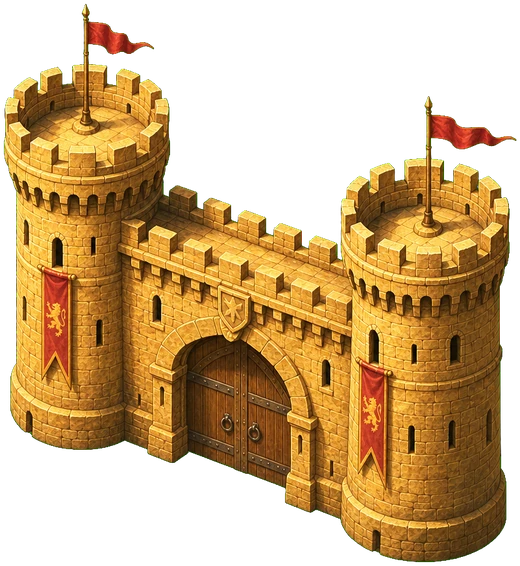
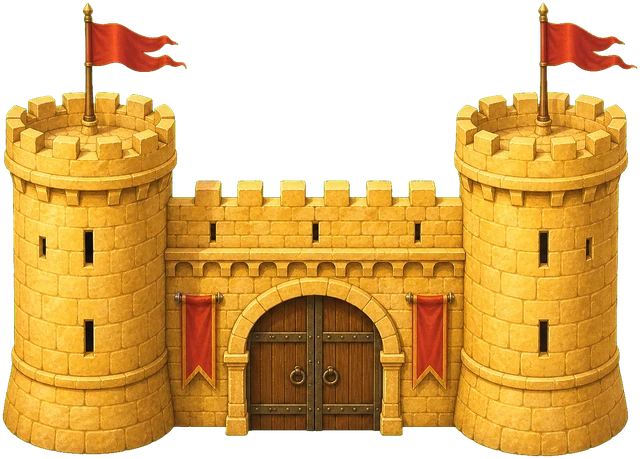
Круглый город: ровные ворота, переулки, подписи одним кеглем, жители и животные
По замечаниям владельца 06.11: ворота перерисованы фронтально и стоят на стене ровно;
между соседними районами переулки с обочинами от улицы снаружи к улице внутри; подписи
районов — один кегль на все строки, до четырёх строк, ширина строк измеряется тем же
шрифтом через canvas, текст по центру остатка дуги, значок номера в начале, обрезки нет;
на домах конёк и перегородки. Жизнь города: листы спрайтов из генератора (жители,
животные, предметы), фонтан, лотки и шатёр на площади, путники идут по улице от ворот
к площади и обратно, над городом птицы; при prefers-reduced-motion движения нет.

scripts/img-gen/sheet.py режет лист спрайтов по связным областям. Документация и
«Что нового» обновлены.

Claude-Session: https://claude.ai/code/session_01GYZTpVpHB6EzyvMrXyiWEP

diff --git a/apps/web/src/pages/SpiralCity.tsx b/apps/web/src/pages/SpiralCity.tsx
@@ -17,9 +17,9 @@ const LAND_PRE = "/img/city-plan/landscape.webp";
 /** Наборы текстур на выбор (владелец смотрит варианты на стенде: `?cityStyle=a|b|c`); окрестности — один цельный сгенерированный пейзаж,
  *  стена и ворота из песчаника, деревья и черепица — тоже из генератора (06.11, `scripts/img-gen`). */
 export const CITY_STYLES = {
-  a: { name: "Пергамент", ground: "/img/props/parchment.webp", road: "/img/city-plan/road-gravel.webp", earth: "/img/city-plan/plot-earth.webp", roof: "/img/city-plan/roof-tiles.webp", outside: LAND_PRE, field: "/img/terrain/hills.webp", tree: "/img/props/olive.webp", square: "/img/props/well.webp", roofEdge: "#6e3a26", label: "#fff6e6", number: "#b5583c" },
-  b: { name: "Оазис", ground: "/img/terrain/oasis.webp", road: "/img/city-plan/road-gravel.webp", earth: "/img/city-plan/plot-earth.webp", roof: "/img/city-plan/roof-flat.webp", outside: LAND_PRE, field: "/img/terrain/desert.webp", tree: "/img/props/palm.webp", square: "/img/props/well.webp", roofEdge: "#7a5a36", label: "#3a2d1f", number: "#7a5226" },
-  c: { name: "Глина", ground: "/img/terrain/desert.webp", road: "/img/city-plan/road-gravel.webp", earth: "/img/city-plan/plot-earth.webp", roof: "/img/city-plan/roof-slate.webp", outside: LAND_PRE, field: "/img/terrain/mountains.webp", tree: "/img/props/olive.webp", square: "/img/props/well.webp", roofEdge: "#2f343c", label: "#f4f6f8", number: "#4f5a66" },
+  a: { name: "Пергамент", ground: "/img/props/parchment.webp", road: "/img/city-plan/road-gravel.webp", earth: "/img/city-plan/plot-earth.webp", roof: "/img/city-plan/roof-tiles.webp", outside: LAND_PRE, roofEdge: "#6e3a26", label: "#fff6e6", number: "#b5583c" },
+  b: { name: "Оазис", ground: "/img/terrain/oasis.webp", road: "/img/city-plan/road-gravel.webp", earth: "/img/city-plan/plot-earth.webp", roof: "/img/city-plan/roof-flat.webp", outside: LAND_PRE, roofEdge: "#7a5a36", label: "#3a2d1f", number: "#7a5226" },
+  c: { name: "Глина", ground: "/img/terrain/desert.webp", road: "/img/city-plan/road-gravel.webp", earth: "/img/city-plan/plot-earth.webp", roof: "/img/city-plan/roof-slate.webp", outside: LAND_PRE, roofEdge: "#2f343c", label: "#f4f6f8", number: "#4f5a66" },
 } as const;
 export type CityStyle = keyof typeof CITY_STYLES;
 export function cityStyleFromQuery(): CityStyle {
@@ -28,19 +28,29 @@ export function cityStyleFromQuery(): CityStyle {
 
 /** Геометрия: участок глубиной W, между витками GAP — обочины с травой и дорога шириной ROAD посередине.
  *  Стена стоит за первым витком улицы (WALL_R); ворота внизу, первый участок начинается через GATE_ARC после них. */
-const VB = 560, C = VB / 2, R0 = 182, W = 30, GAP = 15, ROAD = 7, PITCH = W + GAP, GAPLEN = 7, RMIN = 38, T0 = Math.PI / 2, GATE_ARC = 0.3;
+const VB = 560, C = VB / 2, R0 = 182, W = 30, GAP = 15, ROAD = 7, PITCH = W + GAP, GAPLEN = 9, RMIN = 38, T0 = Math.PI / 2, GATE_ARC = 0.3;
+/** Поперечные дороги между соседними районами (замечание владельца 06.11): дорога и травяная обочина в просвете GAPLEN. */
+const LANE = 4.5, LANE_VERGE = 8;
 const WALL_R = R0 + W + GAP + 6;
 /** Стена — сгенерированный отрезок из песчаника (вид сверху, зубцы по краям, 311×96, бесшовный), выложенный по кругу
  *  WALL_N сегментами шириной WALL_BAND; ворота — отдельный спрайт поверх стены внизу. */
 const WALL_SEG = "/img/city-plan/wall-seg.webp", WALL_BAND = 14, WALL_N = Math.round((2 * Math.PI * WALL_R) / (WALL_BAND * 311 / 96));
-const LAND = "/img/city-plan/landscape.webp", GATE = "/img/city-plan/gate.webp", VERGE = "/img/terrain/meadow.webp";
-/** Спрайты у дороги (сгенерированы, см. docs): w/h — доли размера s, чтобы кипарис был узким и высоким, а куст — приземистым. */
-const PLANTS = [
-  { href: "/img/city-plan/tree-green.webp", w: 1, h: 1 },
-  { href: "/img/city-plan/tree-green2.webp", w: 0.5, h: 1.4 },
-  { href: "/img/props/olive.webp", w: 1, h: 1 },
-  { href: "/img/city-plan/bush.webp", w: 1, h: 0.875 },
-];
+const GATE = "/img/city-plan/gate.webp", VERGE = "/img/terrain/meadow.webp";
+/** Спрайты города (сгенерированы, см. docs): h — высота в единицах плана при масштабе 1, ar — высота/ширина файла. */
+const P = "/img/city-plan/";
+const SPR = {
+  tree: { href: P + "tree-green.webp", h: 9, ar: 1.01 }, cypress: { href: P + "tree-green2.webp", h: 11, ar: 2.8 }, olive: { href: "/img/props/olive.webp", h: 8, ar: 0.99 }, bush: { href: P + "bush.webp", h: 4.5, ar: 0.875 },
+  "woman-jug": { href: P + "woman-jug.webp", h: 5.2, ar: 2.97 }, shepherd: { href: P + "shepherd.webp", h: 5, ar: 1.96 }, merchant: { href: P + "merchant.webp", h: 5, ar: 2.28 }, child: { href: P + "child.webp", h: 4, ar: 2.71 }, elder: { href: P + "elder.webp", h: 5, ar: 2.25 }, "man-basket": { href: P + "man-basket.webp", h: 5.1, ar: 2.19 },
+  donkey: { href: P + "donkey.webp", h: 4.6, ar: 1.06 }, camel: { href: P + "camel.webp", h: 6.2, ar: 1.04 }, sheep: { href: P + "sheep.webp", h: 3, ar: 1.07 }, goat: { href: P + "goat.webp", h: 3.4, ar: 1.23 }, dog: { href: P + "dog.webp", h: 2.8, ar: 0.94 }, hen: { href: P + "hen.webp", h: 1.7, ar: 1.31 },
+  stall: { href: P + "stall.webp", h: 7.5, ar: 1.06 }, cart: { href: P + "cart.webp", h: 5, ar: 0.864 }, amphorae: { href: P + "amphorae.webp", h: 4, ar: 1.01 }, tent: { href: P + "tent.webp", h: 6.5, ar: 0.807 }, haystack: { href: P + "haystack.webp", h: 4.5, ar: 1.12 }, "palm-pot": { href: P + "palm-pot.webp", h: 5.5, ar: 1.13 },
+  fountain: { href: P + "fountain.webp", h: 23, ar: 0.957 },
+} as const;
+type SprKey = keyof typeof SPR;
+type Decor = { x: number; y: number; k: SprKey; s: number };
+const FOLK: SprKey[] = ["woman-jug", "shepherd", "merchant", "child", "elder", "man-basket"], BEASTS: SprKey[] = ["donkey", "camel", "sheep", "goat", "dog", "hen"];
+/** Путники, идущие по улице от ворот к площади и обратно (SMIL animateMotion по дороге); при prefers-reduced-motion стоят. */
+const MOVERS: Array<{ k: SprKey; dur: number; begin: number }> = [{ k: "camel", dur: 170, begin: -30 }, { k: "donkey", dur: 140, begin: -95 }, { k: "shepherd", dur: 200, begin: -150 }, { k: "sheep", dur: 200, begin: -147 }, { k: "sheep", dur: 200, begin: -145 }, { k: "woman-jug", dur: 120, begin: -20 }];
+function Sprite({ d }: { d: Decor }) { const q = SPR[d.k]; const h = q.h * d.s, w = h / q.ar; return <image href={q.href} x={d.x - w / 2} y={d.y - h * 0.9} width={w} height={h} filter="url(#sc-soft)" pointerEvents="none" />; }
 type Plot = { a: number; b: number };
 
 /** Спираль Архимеда: шаг витка — глубина участка плюс дорога; длина участка подбирается так, чтобы вместить все районы. */
@@ -78,11 +88,31 @@ function arcPath(p: Plot, rad: number, reverse: boolean): string {
 }
 /** Детерминированный «случайный» ряд для деревьев и полей — одинаковый на всех устройствах. */
 function rnd(seed: number): () => number { let h = seed >>> 0 || 1; return () => { h ^= h << 13; h >>>= 0; h ^= h >>> 17; h ^= h << 5; h >>>= 0; return h / 4294967296; }; }
-function twoLines(s: string, limit = 16): [string, string] {
-  if (s.length <= limit) return [s, ""];
-  const w = s.split(" "); const a: string[] = []; const b: string[] = [];
-  for (const x of w) { if (!b.length && [...a, x].join(" ").length <= Math.max(limit, Math.ceil(s.length / 2))) a.push(x); else b.push(x); }
-  return [a.join(" "), b.join(" ")];
+/** Ширина строки при кегле 1 — замер тем же шрифтом через canvas (подписи раньше обрезались по оценке «0,62 на букву»). */
+let measurer: CanvasRenderingContext2D | null | undefined;
+function textW(s: string): number {
+  if (measurer === undefined) { try { measurer = document.createElement("canvas").getContext("2d"); if (measurer) measurer.font = "100px Georgia, serif"; } catch { measurer = null; } }
+  return measurer ? measurer.measureText(s).width / 100 : s.length * 0.58;
+}
+/** Подпись района: один кегль на все строки, до четырёх строк; строки выровнены по ширине (минимальная самая длинная). */
+function fitTitle(title: string, usable: number, depth: number): { f: number; lines: string[] } {
+  const words = title.split(" ");
+  const split = (L: number, f: number): string[] | null => {
+    if (L === 1) return textW(title) * f <= usable ? [title] : null;
+    let best: string[] | null = null, bestW = Infinity;
+    const rec = (from: number, left: number, acc: string[]) => {
+      if (left === 1) { const line = words.slice(from).join(" "); const w = Math.max(...acc.map((l) => textW(l)), textW(line)) * f; if (w <= usable && w < bestW) { bestW = w; best = [...acc, line]; } return; }
+      for (let i = from + 1; i <= words.length - left + 1; i++) { const line = words.slice(from, i).join(" "); if (textW(line) * f > usable) break; rec(i, left - 1, [...acc, line]); }
+    };
+    rec(0, L, []); return best;
+  };
+  for (let f = 7.2; f >= 3.4; f -= 0.2) {
+    for (let L = 1; L <= Math.min(4, words.length); L++) {
+      if (L * f * 1.12 > depth - 5) break;
+      const lines = split(L, f); if (lines) return { f, lines };
+    }
+  }
+  return { f: 3.4, lines: [title] };
 }
 
 export function SpiralCity({ districts, slots, onChange, disabled, state, pinsWrong, hint, help, style }: {
@@ -108,22 +138,39 @@ export function SpiralCity({ districts, slots, onChange, disabled, state, pinsWr
   const [filter, setFilter] = useState("");
   const nextFree = slots.findIndex((x) => x === null);
 
-  // Озеленение улиц (замечание владельца 06.11): трава на обочинах, кусты и деревья вдоль дороги, по фиксированному зерну.
-  const plants = useMemo(() => {
+  // Озеленение и жизнь улиц (замечания владельца 06.11): трава на обочинах, кусты и деревья, жители и животные на дороге,
+  // телеги, амфоры и стога у обочин, лотки, шатёр и фонтан на площади — всё по фиксированному зерну, одинаково на всех устройствах.
+  const decor = useMemo(() => {
     const g = rnd(47 + n);
     const k = PITCH / (2 * Math.PI);
-    const out: Array<{ x: number; y: number; s: number; kind: number }> = [];
-    for (let th = T0 + 0.1; R0 - k * (th - T0) + W + GAP / 2 > RMIN + 2; th += 0.11) {
+    const roadR = (th: number) => R0 - k * (th - T0) + W + GAP / 2;
+    const out: Decor[] = [];
+    const put = (th: number, rad: number, kind: SprKey, s = 0.85 + g() * 0.3) => { const [x, y] = pt(th, rad); out.push({ x, y, k: kind, s }); };
+    for (let th = T0 + 0.1; roadR(th) > RMIN + 2; th += 0.11) {
       if (g() > 0.62) continue;
       const side = g() < 0.5 ? -1 : 1;
-      const rad = R0 - k * (th - T0) + W + GAP / 2 + side * (GAP / 2 - 1.2);
-      const [x, y] = pt(th, rad);
       const tree = g() < 0.3;
-      out.push({ x, y, s: tree ? 8 + g() * 4 : 4.5 + g() * 2.5, kind: tree ? Math.floor(g() * 3) : 3 });
+      put(th, roadR(th) + side * (GAP / 2 - 1.2), tree ? (["tree", "cypress", "olive"] as const)[Math.floor(g() * 3)]! : "bush");
     }
-    for (let i = 0; i < 5; i++) { const th = g() * Math.PI * 2; const [x, y] = pt(th, RMIN - 14 + g() * 4); out.push({ x, y, s: 5 + g() * 3, kind: 3 }); }
+    for (let th = T0 + 0.4; roadR(th) > RMIN + 4; th += 0.19) {
+      if (g() > 0.42) continue;
+      const kind = g() < 0.55 ? FOLK[Math.floor(g() * FOLK.length)]! : BEASTS[Math.floor(g() * BEASTS.length)]!;
+      put(th, roadR(th) + (g() - 0.5) * (ROAD - 2.5), kind);
+      if (kind === "sheep" || kind === "goat") for (let j = 0, m = 1 + Math.floor(g() * 2); j < m; j++) put(th + (g() - 0.5) * 0.06, roadR(th) + (g() - 0.5) * (ROAD - 2), kind);
+    }
+    for (let th = T0 + 0.6; roadR(th) > RMIN + 6; th += 0.33) {
+      if (g() > 0.3) continue;
+      const side = g() < 0.5 ? -1 : 1;
+      put(th, roadR(th) + side * (GAP / 2 - 1.6), (["cart", "amphorae", "haystack", "palm-pot"] as const)[Math.floor(g() * 4)]!);
+    }
+    // площадь: фонтан в центре, вокруг — лотки, шатёр, пальма, амфоры и люди
+    out.push({ x: C, y: C + 9, k: "fountain", s: 1 });
+    put(0.45, 20, "stall", 1); put(2.5, 20, "stall", 1); put(4.1, 19, "tent", 1); put(5.35, 19, "palm-pot", 1); put(1.55, 20, "amphorae", 1); put(3.3, 18, "haystack", 0.9);
+    for (let i = 0; i < 7; i++) put(g() * Math.PI * 2, 13.5 + g() * 4, i < 5 ? FOLK[Math.floor(g() * FOLK.length)]! : (["dog", "hen"] as const)[i - 5]!);
+    out.sort((a, b) => a.y - b.y);
     return out;
   }, [n]);
+  const motion = useMemo(() => { try { return !window.matchMedia("(prefers-reduced-motion: reduce)").matches; } catch { return true; } }, []);
 
   // Приближение и перетаскивание: один палец — двигает, два — масштаб, колесо — масштаб у курсора.
   const view = useRef<HTMLDivElement>(null);
@@ -223,46 +270,75 @@ export function SpiralCity({ districts, slots, onChange, disabled, state, pinsWr
             return <image key={i} href={WALL_SEG} x={-len / 2} y={-WALL_BAND / 2} width={len} height={WALL_BAND} preserveAspectRatio="none" transform={`translate(${x.toFixed(1)} ${y.toFixed(1)}) rotate(${((th * 180) / Math.PI + 90).toFixed(1)})`} pointerEvents="none" />;
           })}
           {(() => { const k = PITCH / (2 * Math.PI); const pts: [number, number][] = []; for (let th = T0 - 0.05; R0 - k * (th - T0) + W + GAP / 2 > RMIN - 8; th += 0.05) pts.push(pt(th, R0 - k * (th - T0) + W + GAP / 2)); const d = "M " + pts.map(fmt).join(" L "); return (<>
-            <path d={d} fill="none" stroke={`url(#${ids.verge})`} strokeWidth={GAP + 2} strokeLinecap="round" />
+            <path id="sc-roadpath" d={d} fill="none" stroke={`url(#${ids.verge})`} strokeWidth={GAP + 2} strokeLinecap="round" />
             <path d={d} fill="none" stroke="#6b5a3a" strokeWidth={ROAD + 1.2} strokeLinecap="round" opacity=".35" />
             <path d={d} fill="none" stroke={`url(#${ids.road})`} strokeWidth={ROAD} strokeLinecap="round" />
           </>); })()}
+          {/* Переулки между соседними районами: от улицы снаружи к улице внутри, под участками */}
+          {plots.slice(0, -1).map((p, i) => {
+            const th = (p.b + plots[i + 1]!.a) / 2, a = pt(th, r(th) - GAP / 2 + 1), b = pt(th, r(th) + W + GAP / 2 - 1);
+            return (<g key={i} pointerEvents="none">
+              <line x1={a[0]} y1={a[1]} x2={b[0]} y2={b[1]} stroke={`url(#${ids.verge})`} strokeWidth={LANE_VERGE} />
+              <line x1={a[0]} y1={a[1]} x2={b[0]} y2={b[1]} stroke="#6b5a3a" strokeWidth={LANE + 1} opacity=".3" />
+              <line x1={a[0]} y1={a[1]} x2={b[0]} y2={b[1]} stroke={`url(#${ids.road})`} strokeWidth={LANE} />
+            </g>);
+          })}
           {/* Участки */}
           {plots.map((p, i) => {
             const id = slots[i] ?? null; const d = id ? byId.get(id) : undefined;
             const mid = (p.a + p.b) / 2; const rm = r(mid) + W / 2; const bottom = Math.sin(mid) > 0;
-            const arcLen = (p.b - p.a) * rm;
             const active = !disabled && (pick === i || (pick === null && i === nextFree));
-            const [l1, l2] = d ? twoLines(d.title) : ["", ""];
-            const fs = (s: string) => Math.max(4.2, Math.min(7.2, arcLen / (Math.max(6, s.length) * 0.62)));
-            const f1 = fs(l1), f2 = l2 ? fs(l2) : 0;
-            const r1 = l2 ? (bottom ? rm - W * 0.08 + f1 * 0.35 : rm - W * 0.22 - 0) : (bottom ? rm + f1 * 0.35 : rm - f1 * 0.35);
-            const r2 = bottom ? rm + W * 0.22 + f2 * 0.35 : rm + W * 0.08 - 0;
-            const [nx, ny] = pt(p.a + (p.b - p.a) * 0.14, r(p.a) + W * 0.5);
+            // Подпись: значок номера занимает начало дуги (у p.a), текст — по центру остатка; строки одним кеглем, замер шириной.
+            const phiB = 9 / rm, phiM = 2 / rm, span = p.b - p.a - phiB - 2 * phiM;
+            const fit = d ? fitTitle(d.title, span * (rm - 6), W) : null;
+            const thC = p.a + phiM + phiB + span / 2, off = ((bottom ? p.b - thC : thC - p.a) / (p.b - p.a)) * 100;
+            const [nx, ny] = pt(p.a + phiM + phiB / 2, rm);
+            const houses = Math.max(2, Math.round(((p.b - p.a) * rm) / 13));
             return (
               <g key={i} data-plot={i} className="plot">
                 {d
                   ? <path d={plotPath(p, r)} fill={`url(#${ids.roof})`} stroke={st.roofEdge} strokeWidth="1.6" filter="url(#sc-shadow)" />
                   : <path d={plotPath(p, r)} fill={`url(#${ids.earth})`} stroke={active ? "#e0a64a" : "#7a6342"} strokeWidth={active ? 2.4 : 1} strokeDasharray={active ? undefined : "3 2"} opacity={active ? 1 : 0.92} />}
+                {d && (<g pointerEvents="none">
+                  {/* Ряд домов: конёк крыши вдоль участка и перегородки между домами */}
+                  <path d={arcPath(p, rm, false)} fill="none" stroke="#4a2114" strokeWidth=".8" opacity=".5" />
+                  <path d={arcPath(p, rm + 1, false)} fill="none" stroke="#ffd9a0" strokeWidth=".6" opacity=".35" />
+                  {Array.from({ length: houses - 1 }, (_, j) => { const th = p.a + ((p.b - p.a) * (j + 1)) / houses; const a = pt(th, r(th) + 1), b = pt(th, r(th) + W - 1); return <line key={j} x1={a[0]} y1={a[1]} x2={b[0]} y2={b[1]} stroke="#4a2114" strokeWidth=".7" opacity=".45" />; })}
+                </g>)}
                 {d && active && <path d={plotPath(p, r)} fill="none" stroke="#e0a64a" strokeWidth="2.4" />}
-                {d ? (<>
-                  <path id={`sc-t${i}a`} d={arcPath(p, r1, bottom)} fill="none" />
-                  {l2 && <path id={`sc-t${i}b`} d={arcPath(p, r2, bottom)} fill="none" />}
-                  <text fontSize={f1} fontFamily="Georgia, serif" fill={st.label} style={{ paintOrder: "stroke" }} stroke="rgba(40,25,10,.55)" strokeWidth=".9"><textPath href={`#sc-t${i}a`} startOffset="54%" textAnchor="middle">{l1}</textPath></text>
-                  {l2 && <text fontSize={f2} fontFamily="Georgia, serif" fill={st.label} style={{ paintOrder: "stroke" }} stroke="rgba(40,25,10,.55)" strokeWidth=".9"><textPath href={`#sc-t${i}b`} startOffset="54%" textAnchor="middle">{l2}</textPath></text>}
-                  <circle cx={nx} cy={ny} r="4.6" fill={st.number} stroke="#fff6e6" strokeWidth=".8" />
-                  <text x={nx} y={ny + 1.9} textAnchor="middle" fontSize="5.4" fontWeight="700" fontFamily="system-ui, sans-serif" fill="#fff">{i + 1}</text>
+                {d && fit ? (<>
+                  {fit.lines.map((line, li) => {
+                    const L = fit.lines.length, lh = fit.f * 1.12, c = bottom ? rm - ((L - 1) / 2 - li) * lh : rm + ((L - 1) / 2 - li) * lh;
+                    const rho = bottom ? c + fit.f * 0.35 : c - fit.f * 0.35, w = textW(line) * fit.f, usable = span * rho;
+                    return (<g key={li}>
+                      <path id={`sc-t${i}-${li}`} d={arcPath(p, rho, bottom)} fill="none" />
+                      <text fontSize={fit.f} fontFamily="Georgia, serif" fill={st.label} style={{ paintOrder: "stroke" }} stroke="rgba(40,25,10,.6)" strokeWidth=".9" {...(w > usable ? { textLength: usable, lengthAdjust: "spacingAndGlyphs" as const } : {})}><textPath href={`#sc-t${i}-${li}`} startOffset={`${off.toFixed(1)}%`} textAnchor="middle">{line}</textPath></text>
+                    </g>);
+                  })}
+                  <circle cx={nx} cy={ny} r="4" fill={st.number} stroke="#fff6e6" strokeWidth=".8" />
+                  <text x={nx} y={ny + 1.7} textAnchor="middle" fontSize="4.8" fontWeight="700" fontFamily="system-ui, sans-serif" fill="#fff">{i + 1}</text>
                 </>) : (<>
                   <text x={pt(mid, rm)[0]} y={pt(mid, rm)[1] + 2.6} textAnchor="middle" fontSize={active ? 8 : 7} fontWeight="700" fontFamily="system-ui, sans-serif" fill={active ? "#a8722e" : "#6e5a3e"}>{i + 1}</text>
                 </>)}
               </g>
             );
           })}
-          {/* Ворота (сгенерированы, 520×566) стоят на стене внизу: основание чуть снаружи, башни — над стеной; и площадь */}
-          <image href={GATE} x={gateXY[0] - 30} y={gateXY[1] - 57} width="60" height="65.3" filter="url(#sc-soft)" pointerEvents="none" />
-          <image href={st.square} x={C - 12} y={C - 17} width="24" height="24" filter="url(#sc-soft)" pointerEvents="none" />
-          <text x={C} y={C + 15} textAnchor="middle" fontSize="6" fontWeight="700" fontFamily="system-ui, sans-serif" fill="#fff6e6" stroke="rgba(40,25,10,.55)" strokeWidth=".8" style={{ paintOrder: "stroke" }} pointerEvents="none">{t("Площадь")}</text>
-          {plants.map((q, i) => { const sp = PLANTS[q.kind]!; const w = q.s * sp.w, h = q.s * sp.h; return <image key={i} href={sp.href} x={q.x - w / 2} y={q.y - h * 0.85} width={w} height={h} filter="url(#sc-soft)" pointerEvents="none" />; })}
+          {/* Жизнь города: растения, жители, животные, предметы, фонтан — по порядку сверху вниз, чтобы ближние перекрывали дальних */}
+          {decor.map((q, i) => <Sprite key={i} d={q} />)}
+          <text x={C} y={C + 16} textAnchor="middle" fontSize="6" fontWeight="700" fontFamily="system-ui, sans-serif" fill="#fff6e6" stroke="rgba(40,25,10,.55)" strokeWidth=".8" style={{ paintOrder: "stroke" }} pointerEvents="none">{t("Площадь")}</text>
+          {/* Ворота (сгенерированы, фронтально, 640×459) стоят на стене внизу: основание чуть снаружи стены, башни над ней */}
+          <image href={GATE} x={gateXY[0] - 32} y={gateXY[1] - 37} width="64" height="45.9" filter="url(#sc-soft)" pointerEvents="none" />
+          {/* Путники идут по улице от ворот к площади и обратно; птицы кружат над городом */}
+          {motion && MOVERS.map((m, i) => { const q = SPR[m.k]; const h = q.h, w = h / q.ar; return (
+            <g key={i} pointerEvents="none">
+              <image href={q.href} x={-w / 2} y={-h * 0.9} width={w} height={h} filter="url(#sc-soft)" />
+              <animateMotion dur={`${m.dur}s`} begin={`${m.begin}s`} repeatCount="indefinite" keyPoints="0;1;0" keyTimes="0;0.5;1" calcMode="linear"><mpath href="#sc-roadpath" /></animateMotion>
+            </g>); })}
+          {motion && [[0, 118, 76, 52], [0.9, 150, 95, 67], [2.1, 96, 62, 44]].map(([ph, rx, ry, dur], i) => (
+            <g key={i} pointerEvents="none" opacity=".75">
+              <path d="M-1.3 -2.2 Q0 -0.9 0.1 0 Q0 0.9 -1.3 2.2" fill="none" stroke="#2b2118" strokeWidth=".6" strokeLinecap="round" />
+              <animateMotion dur={`${dur}s`} begin={`${-ph! * 10}s`} repeatCount="indefinite" rotate="auto" path={`M ${C - rx!} ${C} A ${rx} ${ry} 0 1 1 ${C + rx!} ${C} A ${rx} ${ry} 0 1 1 ${C - rx!} ${C}`} />
+            </g>))}
         </svg>
       </div>
       <div className="plan-foot">

diff --git a/apps/web/src/lib/en/changelog.ts b/apps/web/src/lib/en/changelog.ts
@@ -1,5 +1,6 @@
 /** EN-строки раздела «Что нового». Ключ — русская строка из content/changelog.ts. */
 export const CHANGELOG_EN: Record<string, string> = {
+  "Круглый город на тестовом стенде ожил: между районами переулки, на улицах жители, овцы, ослики и верблюды, у обочин телеги и амфоры, на площади фонтан и лотки; путники идут от ворот к площади, над городом кружат птицы. Ворота стоят на стене ровно, названия районов вписаны в дома целиком, одним шрифтом.": "The round city on the test stand has come alive: lanes between districts, townsfolk, sheep, donkeys and camels on the streets, carts and amphorae by the roadside, a fountain and market stalls on the square; travellers walk from the gate to the square and birds circle above the city. The gate stands straight on the wall, and district names fit inside the houses in full, in one type size.",
   "Круглый город на тестовом стенде нарисован заново: вокруг города один цельный пейзаж с рекой, рощами и полями, стена из песчаника с зубцами и величественные ворота внизу, вдоль улиц трава, кусты, деревья и кипарисы, на домах терракотовая черепица. Кнопки приближения убраны: город двигают пальцем, приближают щипком или двойным нажатием.": "The round city on the test stand has been redrawn: one whole landscape with a river, groves and fields around the city, a sandstone wall with battlements and a majestic gate at the bottom, grass, bushes, trees and cypresses along the streets, terracotta tiles on the houses. The zoom buttons are gone: drag the city with a finger, zoom with a pinch or a double tap.",
   "Бытие на тестовом стенде: 47 районов по главам книги. Замок порядка — круглый город: районы ставятся на участки вдоль спирали от ворот к площади, город можно приближать и двигать, нажатие на участок открывает список оставшихся районов. Там, где задание ещё готовится, район помечен «задание готовится».": "Genesis on the test stand: 47 districts by chapters of the book. The order lock is a round city: districts are placed on plots along a spiral from the gate to the square, the city can be zoomed and dragged, tapping a plot opens the list of remaining districts. Where a task is still being prepared, the district is marked “task in preparation”.",
   "Бытие: район «Грехопадение человека» — задание из трёх расстановок: порядок греха, допроса и приговора. Засчитывается, когда верны все три; отмычка одна на всё задание. Вопрос о вере Авеля — теперь дополнительное задание в конце списка; «найдите стих 12:2» убрано.": "Genesis: the district “The fall of man” has a task of three orderings: the order of sin, of interrogation and of judgment. It counts only when all three are right; one lockpick for the whole task. The question about Abel’s faith is now an extra task at the end of the list; “find verse 12:2” is removed.",

diff --git a/apps/web/src/content/changelog.ts b/apps/web/src/content/changelog.ts
@@ -6,6 +6,7 @@ export interface ChangeDay { date: string; items: string[] }
 
 export const CHANGELOG: ChangeDay[] = [
   { date: "2026-11-06", items: [
+    "Круглый город на тестовом стенде ожил: между районами переулки, на улицах жители, овцы, ослики и верблюды, у обочин телеги и амфоры, на площади фонтан и лотки; путники идут от ворот к площади, над городом кружат птицы. Ворота стоят на стене ровно, названия районов вписаны в дома целиком, одним шрифтом.",
     "Круглый город на тестовом стенде нарисован заново: вокруг города один цельный пейзаж с рекой, рощами и полями, стена из песчаника с зубцами и величественные ворота внизу, вдоль улиц трава, кусты, деревья и кипарисы, на домах терракотовая черепица. Кнопки приближения убраны: город двигают пальцем, приближают щипком или двойным нажатием.",
     "Бытие на тестовом стенде: 47 районов по главам книги. Замок порядка — круглый город: районы ставятся на участки вдоль спирали от ворот к площади, город можно приближать и двигать, нажатие на участок открывает список оставшихся районов. Там, где задание ещё готовится, район помечен «задание готовится».",
   ] },

diff --git a/scripts/img-gen/sheet.py b/scripts/img-gen/sheet.py
@@ -1,0 +1,53 @@
+# Разрезка листа спрайтов на зелёном хромакее: альфа по расстоянию до цвета фона, связные области → отдельные webp.
+#   python3 -I scripts/img-gen/sheet.py sheet.png outdir maxheight name1,name2,...   (имена — по порядку слева направо, сверху вниз)
+# Масштаб общий для всего листа (самый высокий спрайт = maxheight), так что относительные размеры предметов сохраняются.
+import sys, numpy as np
+from PIL import Image
+src, outdir, maxh, names = sys.argv[1], sys.argv[2].rstrip("/"), int(sys.argv[3]), sys.argv[4].split(",")
+im = Image.open(src).convert("RGB"); a = np.asarray(im).astype(float); h, w, _ = a.shape
+corners = np.concatenate([a[:20, :20].reshape(-1, 3), a[:20, -20:].reshape(-1, 3), a[-20:, :20].reshape(-1, 3), a[-20:, -20:].reshape(-1, 3)])
+bg = np.median(corners, axis=0)
+d = np.sqrt(((a - bg) ** 2).sum(axis=2)); t1, t2 = 40.0, 110.0
+alpha = np.clip((d - t1) / (t2 - t1), 0, 1)
+rgb = a.copy(); edge = (alpha > 0) & (alpha < 1)
+g_excess = np.clip(rgb[..., 1] - (rgb[..., 0] + rgb[..., 2]) / 2, 0, None)
+rgb[..., 1] = np.where(edge, rgb[..., 1] - g_excess * 0.9, rgb[..., 1])
+rgba = Image.fromarray(np.dstack([np.clip(rgb, 0, 255), alpha * 255]).astype(np.uint8), "RGBA")
+# связные области на уменьшенной маске (шаг 4), 8-связность, обход в ширину
+step = 4; m = (alpha[::step, ::step] > 0.5); mh, mw = m.shape; lab = np.zeros(m.shape, int); comps = []
+for y0 in range(mh):
+    for x0 in range(mw):
+        if not m[y0, x0] or lab[y0, x0]: continue
+        k = len(comps) + 1; stack = [(y0, x0)]; lab[y0, x0] = k; pts = []
+        while stack:
+            y, x = stack.pop(); pts.append((y, x))
+            for dy in (-1, 0, 1):
+                for dx in (-1, 0, 1):
+                    yy, xx = y + dy, x + dx
+                    if 0 <= yy < mh and 0 <= xx < mw and m[yy, xx] and not lab[yy, xx]: lab[yy, xx] = k; stack.append((yy, xx))
+        ys = [p[0] for p in pts]; xs = [p[1] for p in pts]
+        comps.append({"n": len(pts), "y0": min(ys) * step, "y1": (max(ys) + 1) * step, "x0": min(xs) * step, "x1": (max(xs) + 1) * step})
+big = [c for c in comps if c["n"] * step * step > 0.002 * h * w]
+# слить области, чьи рамки пересекаются или почти касаются (отделившиеся детали — флаг, струя)
+merged = True
+while merged:
+    merged = False
+    for i in range(len(big)):
+        for j in range(i + 1, len(big)):
+            p, q = big[i], big[j]; pad = 12
+            if p["x0"] - pad < q["x1"] and q["x0"] - pad < p["x1"] and p["y0"] - pad < q["y1"] and q["y0"] - pad < p["y1"]:
+                big[i] = {"n": p["n"] + q["n"], "x0": min(p["x0"], q["x0"]), "x1": max(p["x1"], q["x1"]), "y0": min(p["y0"], q["y0"]), "y1": max(p["y1"], q["y1"])}; del big[j]; merged = True; break
+        if merged: break
+# порядок: по рядам (центр по y с допуском половины высоты), внутри ряда — по x
+big.sort(key=lambda c: (c["y0"] + c["y1"]) / 2); rows = []
+for c in big:
+    cy = (c["y0"] + c["y1"]) / 2
+    if rows and abs(cy - rows[-1][0]) < (c["y1"] - c["y0"]) * 0.6: rows[-1][1].append(c)
+    else: rows.append([cy, [c]])
+order = [c for _, row in rows for c in sorted(row, key=lambda c: c["x0"])]
+if len(order) != len(names): print("FAIL: областей", len(order), "имён", len(names), [(c["x0"], c["y0"], c["x1"], c["y1"]) for c in order]); sys.exit(1)
+scale = maxh / max(c["y1"] - c["y0"] for c in order)
+for c, name in zip(order, names):
+    sp = rgba.crop((max(0, c["x0"] - 4), max(0, c["y0"] - 4), min(w, c["x1"] + 4), min(h, c["y1"] + 4)))
+    sp = sp.resize((max(1, round(sp.width * scale)), max(1, round(sp.height * scale))), Image.LANCZOS)
+    sp.save(f"{outdir}/{name}.webp", "WEBP", quality=90, method=6); print("ok", name, sp.size)

diff --git a/docs/LANDS_OF_THE_WORD.md b/docs/LANDS_OF_THE_WORD.md
@@ -408,7 +408,7 @@
   - ✅ **Бытие, кроссворд «Каин и Авель» (решения владельца 05.11 по ревизии заданий: два вопроса из замены отклонены как «тупые», свои — «Назовите второго отца Каина» и «В какую сторону от Едема были изгнаны Адам и Ева»).** Семь слов: всемеро, земледелец, знамение, изгнанник, тук из ревизии; «дьявол» (допустимо «диавол», пометка источника `ref: 1 Ин. 3:12; Ин. 8:44`) и «восток» (4:16; 3:24). Пересказ района больше не выдаёт «восток». Валидатор `scripts/validate-city.py` пропускает проверку «слово в стихах района» для слова с `ref`; сетка 15×15 — на клетку больше порога подсказки, принято владельцем.
   - ✅ **Задание-хиазм «Вавилонская башня» (решение владельца 05.11: «вместо задания по району Бытие 11:1–9 нужно сделать расстановку в правильном порядке хиазма и дать краткое описание, что такое хиазм… не в виде замка, а что-то новое… помни про отмычки»).** Новый тип задания `chiasm` (`services/cities.ts`): `intro` (что такое хиазм), `center` (поворот, виден сразу), `pairs` (зеркальные пары строк, 2–8), `look` (`tower` — зиккурат: замысел человека слева вверх, ответ Бога справа вниз; `mirror` — схема с отступом к середине), поле `reveal` — ирония истории после верного ответа. `publicTask` отдаёт строки перетасованными с opaque id, ответ — id по местам прочтения А…Д, Д′…А′ (`chiasmOrder`); проверка в `checkAnswer`, пауза отмычки и черновик (`taskDrafts`, «-» — пустое место) — те же, что у других заданий; собранная доска у решённого задания (`solution`) отменена вечером 05.11: ответы решённых заданий не показываются. Клиент: `ChiasmBoard` в `CityForms.tsx` (куча строк внизу, подсвеченное место, нажатие на занятое место возвращает строку), объяснение в раскрытом `details` над вопросом, кнопка «Сложить хиазм»; стили `.chiasm` в `player.css`. Контент — `content/cities/gen.json`, задание 5; валидатор проверяет пары, intro и center. Тест в `cityReveal.test.ts`. Вид «зеркало» принят владельцем (строки к левому краю, центр с тем же отступом), выложено в прод 05.11.
   - ✅ **Письмо пророка к хиазму — одна зеркальная пара строк, не текст района (решение владельца 05.11: «в письме пророку нужно показать не текст, а два ответа, например Г и Г′, чтобы они поняли принцип»).** `chiasmHint` (`services/cities.ts`) берёт пару `hintPair` из содержания (с единицы), по умолчанию вторую — Б и Б′ (уточнение владельца 05.11: «не Г и Г′, а Б и Б′»); `buildHint` (`routes/diplomacy.ts`) отдаёт её в поле `pair` ({ mark, first, second, place, n }) с пустым `text`. Письмо в `CityPopup.tsx` показывает две строки с буквами мест, как на доске (`.letter-pair` в `player.css`), и фразу «Б — 2-я строка от начала, Б′ — 2-я от конца: вторая половина отражает первую. Так же стоят и остальные пары»; подсказка у свечи говорит «одну пару строк хиазма». Неделя на пророка прежняя, но к хиазму писем несколько (решение владельца 05.11: «с каждой новой свечой пророку открывалась новая пара; он может делать это раз в неделю»): `hintLimit` — по письму на пару, `chiasmHintOrder` — сначала `hintPair` (по умолчанию Б), затем остальные по порядку (А, В, Г, Д); маршрут считает открытые письма по числу вхождений номера задания в `hintTasks` (без миграции), после всех пар — 409 «Все пары этого хиазма уже открыты». В задании пророк видит «Пророк открыл пар хиазма: k из n», свеча остаётся, пока пары не кончатся; в письме — «Пара k из n». Обычное задание — по-прежнему одно письмо. Валидатор проверяет `hintPair` в пределах пар. Тесты: `cityReveal.test.ts` (пара и `hintPair`), `rules.test.ts` (маршрут).
-  - ✅ **Круглый город — замок порядка для книг с планом `spiral` (решение владельца 06.11; Бытие, 47 районов).** Содержание: поле `plan: "rings" | "spiral"` (`services/cities.ts`, по умолчанию кольца), отдаётся в `GET my-city` как `content.plan`; тип задания `todo` — заглушка (район есть, задание готовится; `checkAnswer` — ложь, в задании заметка без формы, свеча пророка скрыта, в списке районов пометка «задание готовится»). Клиент: `SpiralCity.tsx` — спираль Архимеда (`spiral(n)`: шаг витка = глубина участка + дорога, длина участка подбирается делением пополам, чтобы вместить все районы), участки-трапеции (`plotPath`), дорога-спираль, деревья по фиксированному зерну, стена с воротами внизу, площадь с колодцем; текст на домах по дуге (`textPath`, в нижней половине круга дуга в обратную сторону, чтобы буквы стояли прямо); приближение и перетаскивание на pointer-событиях (один палец — двигает, два — масштаб, колесо — у курсора, кнопки «+», «−», «весь город»); нажатие на участок (без сдвига, `elementFromPoint`) открывает лист участка с кучей оставшихся районов и поиском, занятый участок — «Вернуть в кучу». Черновик — `orderDraft` с «-» на пустых участках (`spiralDraft` в `CityPopup.tsx`), «Провернуть замок» доступен, когда все участки заняты; ответ замка «не на своём месте: N». Три набора текстур `CITY_STYLES` (a — пергамент, b — оазис, c — глина), на стенде выбор `?cityStyle=`. Картинки круглого города нарисованы генератором (OpenAI Images через `scripts/img-gen/gen_img.py`, спрайты на зелёном хромакее → `key.py`; `public/img/city-plan/`): окрестности — один цельный пейзаж `landscape.webp`, стена — бесшовный отрезок `wall-seg.webp` сегментами по кругу (`WALL_N`), ворота `gate.webp` на стене внизу (первый участок начинается через `GATE_ARC` после ворот), деревья `tree-green*.webp` (крона и кипарис, пропорции спрайтов в `PLANTS`), куст `bush.webp`, черепица `roof-tiles.webp`; земля участков и гравий дороги — процедурные. Промты (кратко): пейзаж — «карта-пейзаж библейской земли, вид сверху: луга, оливковые рощи, холмы, поля, река у правого края, лес по краям, дорога снизу к пустой круглой площадке в центре, без зданий и текста»; ворота — «крепостные ворота с двумя круглыми башнями, зубцами, флагами и аркой, песчаник, вид сверху-сбоку»; стена — «прямой отрезок стены из песчаника строго сверху, по краям ряд зубцов, через весь кадр, без башен»; деревья — «отдельное зелёное лиственное дерево / стройный кипарис, вид сверху-сбоку»; куст — «круглый зелёный куст»; черепица — «бесшовная терракотовая черепица сверху». Сложные картинки (пейзаж) идут только с частичными кадрами (`--partial 2`): без них поток молчит, и прокси обрывает запрос. Валидатор: районов не больше 60, больше 16 без плана `spiral` — предупреждение. Содержание Бытия — `docs/tasks/GENESIS_DISTRICTS.md`. Тест в `cityReveal.test.ts`.
+  - ✅ **Круглый город — замок порядка для книг с планом `spiral` (решение владельца 06.11; Бытие, 47 районов).** Содержание: поле `plan: "rings" | "spiral"` (`services/cities.ts`, по умолчанию кольца), отдаётся в `GET my-city` как `content.plan`; тип задания `todo` — заглушка (район есть, задание готовится; `checkAnswer` — ложь, в задании заметка без формы, свеча пророка скрыта, в списке районов пометка «задание готовится»). Клиент: `SpiralCity.tsx` — спираль Архимеда (`spiral(n)`: шаг витка = глубина участка + дорога, длина участка подбирается делением пополам, чтобы вместить все районы), участки-трапеции (`plotPath`), дорога-спираль, деревья по фиксированному зерну, стена с воротами внизу, площадь с колодцем; текст на домах по дуге (`textPath`, в нижней половине круга дуга в обратную сторону, чтобы буквы стояли прямо); приближение и перетаскивание на pointer-событиях (один палец — двигает, два — масштаб, колесо — у курсора, кнопки «+», «−», «весь город»); нажатие на участок (без сдвига, `elementFromPoint`) открывает лист участка с кучей оставшихся районов и поиском, занятый участок — «Вернуть в кучу». Черновик — `orderDraft` с «-» на пустых участках (`spiralDraft` в `CityPopup.tsx`), «Провернуть замок» доступен, когда все участки заняты; ответ замка «не на своём месте: N». Три набора текстур `CITY_STYLES` (a — пергамент, b — оазис, c — глина), на стенде выбор `?cityStyle=`. Картинки круглого города нарисованы генератором (OpenAI Images через `scripts/img-gen/gen_img.py`, спрайты на зелёном хромакее → `key.py`; `public/img/city-plan/`): окрестности — один цельный пейзаж `landscape.webp`, стена — бесшовный отрезок `wall-seg.webp` сегментами по кругу (`WALL_N`), ворота `gate.webp` на стене внизу (первый участок начинается через `GATE_ARC` после ворот), деревья `tree-green*.webp` (крона и кипарис, пропорции спрайтов в `PLANTS`), куст `bush.webp`, черепица `roof-tiles.webp`; земля участков и гравий дороги — процедурные. Промты (кратко): пейзаж — «карта-пейзаж библейской земли, вид сверху: луга, оливковые рощи, холмы, поля, река у правого края, лес по краям, дорога снизу к пустой круглой площадке в центре, без зданий и текста»; ворота — «крепостные ворота с двумя круглыми башнями, зубцами, флагами и аркой, песчаник, вид сверху-сбоку»; стена — «прямой отрезок стены из песчаника строго сверху, по краям ряд зубцов, через весь кадр, без башен»; деревья — «отдельное зелёное лиственное дерево / стройный кипарис, вид сверху-сбоку»; куст — «круглый зелёный куст»; черепица — «бесшовная терракотовая черепица сверху». Сложные картинки (пейзаж) идут только с частичными кадрами (`--partial 2`): без них поток молчит, и прокси обрывает запрос. Четвёртый заход 06.11: ворота фронтальные (стоят на стене ровно), между соседними районами переулки (`LANE`, под участками), подписи — один кегль на все строки, ширина строк измеряется тем же шрифтом через canvas (`textW`, `fitTitle`: до четырёх строк, строки выровнены по ширине, значок номера в начале дуги), на домах конёк и перегородки; жизнь города — листы спрайтов, разрезанные `scripts/img-gen/sheet.py` (жители, животные, предметы), фонтан на площади, путники по улице (`animateMotion` с `mpath` по пути улицы, туда и обратно) и птицы над городом; при `prefers-reduced-motion` ничего не движется. Промты листов: «лист спрайтов: шесть отдельных фигурок жителей / животных / предметов восточного города библейских времён, сеткой три в ряд, не касаются друг друга, вид сверху-сбоку»; ворота — «вид строго спереди с небольшим наклоном сверху, симметрично, без разворота». Валидатор: районов не больше 60, больше 16 без плана `spiral` — предупреждение. Содержание Бытия — `docs/tasks/GENESIS_DISTRICTS.md`. Тест в `cityReveal.test.ts`.
   - ✅ **Задание из нескольких расстановок — тип `orders` (решение владельца 05.11 по Бытию 3: «правильно расставить вот таких три штуки в рамках этого задания» — порядок греха, допроса, приговора).** Схема: `groups: [{ title, items }]` (2–4 группы, в каждой от двух пунктов); `publicTask` тасует каждую группу отдельно, id пунктов сквозные (`groupOffsets`), ответ — плоский список id, `checkAnswer` требует верный порядок внутри каждой группы и все группы целиком; `stripAnswers` отдаёт группы администратору. Клиент: в `TaskView` по `LockRings` на группу (новые пропы `title`, `compact` — заголовок вместо «Замок», без дужки, `.lock.compact`), одна кнопка «Провернуть замок», черновик общий плоский (`ordersDraft`); у администратора ответ — группы через « · ». Валидатор проверяет группы. Контент: `gen.json`, задание 2; задание о вере перенесено в конец, задание по всей книге «12:2» убрано (решения владельца, `docs/tasks/GENESIS_DISTRICTS.md`). Тест в `cityReveal.test.ts`.
   - ✅ **Ответы решённых заданий города не показываются (решение владельца 05.11: «решил, ответ принят — и всё; ответ вообще не показывается», цель — «те, кто уже сыграл один раз, не использовали эти ответы в следующий раз, а брали из памяти»).** `GET my-city` отдаёт задания только через `publicTask`: ни `solution` у решённого хиазма, ни `reveal` у решённого задания (прежние правила 05.11 о выдаче `reveal`/`solution` решённым отменены). Стих-подтверждение приходит один раз — в ответе `POST …/answer` на верный ответ; клиент (`CityPopup.tsx`, `revealOnce`) показывает его под вопросом, пока открыто это задание, и сбрасывает при переходе к другому. У решённого задания — только «Выполнено. Знак шифра». `ChiasmBoard` без пропа `solution`. Тесты: `cities.test.ts`, `rules.test.ts`.
   - ✅ **Стена: нажатие выбирает блок, удержание открывает имена (замечание игрока 05.11: «нажимаешь на кирпич — обязательно выскочит список со всеми именами… хочется выбрать блок и сразу ссылку»; решение владельца: «открытие панелки с участниками при долгом нажатии, при простом — просто выбор блока для заучивания»).** В `BuildSheet` (`Wall.tsx`) `onClick` только выбирает блок (поле ссылок появляется сразу), лист «кто учил» (`WhoSheet`) открывает удержание 450 мс (`onPointerDown`/`onPointerUp`/`onPointerLeave`/`onPointerCancel`, `longFired` гасит следующий клик, `onContextMenu` отключён); у кирпичей `user-select: none`, `-webkit-touch-callout: none`. Подсказка у сетки говорит «Нажатие выбирает блок; удержание показывает имена».

diff --git a/docs/tasks/GENESIS_DISTRICTS.md b/docs/tasks/GENESIS_DISTRICTS.md
@@ -239,5 +239,15 @@
   зубцами по обоим краям, бесшовный — выкладывается по кругу сегментами), `tree-green.webp` (круглая крона),
   `tree-green2.webp` (кипарис, 128×359), `bush.webp`, `roof-tiles.webp` (терракотовая черепица, бесшовная). Спрайты
   вырезаны по зелёному хромакею (`scripts/img-gen/key.py`). Процедурными остались земля участков и гравий дороги.
+- Замечания владельца 06.11 (четвёртый заход): ворота перерисованы фронтально (`gate.webp` 640×459, симметричные, стоят
+  на стене ровно); между соседними районами — переулки с травяной обочиной от улицы снаружи к улице внутри (`LANE`,
+  просвет `GAPLEN` 9); подписи районов — один кегль на все строки, до четырёх строк, ширина строк измеряется тем же
+  шрифтом через canvas (`textW`, `fitTitle`), значок номера в начале участка, текст по центру остатка дуги, обрезки нет;
+  на домах конёк и перегородки между домами. Жизнь города: листы спрайтов (`scripts/img-gen/sheet.py` режет лист по
+  связным областям) — жители (`woman-jug`, `shepherd`, `merchant`, `child`, `elder`, `man-basket`), животные (`donkey`,
+  `camel`, `sheep`, `goat`, `dog`, `hen`), предметы (`stall`, `cart`, `amphorae`, `tent`, `haystack`, `palm-pot`) и
+  фонтан (`fountain.webp`); жители и животные стоят на улице, телеги, амфоры, стога и пальмы у обочин, на площади фонтан,
+  лотки, шатёр; шесть путников (верблюд, ослик, пастух с овцами, женщина с кувшином) идут по улице от ворот к площади и
+  обратно (`animateMotion` по пути улицы), над городом кружат три птицы; при `prefers-reduced-motion` движения нет.
 - Шифр города: в старых партиях на стенде код Бытия остался 17-значным, задания с 18-го знака не дают; новая партия
   получит 49-значный. Длина шифра и порог ключа — отдельное решение перед продом.

diff --git a/scripts/img-gen/README.md b/scripts/img-gen/README.md
@@ -11,3 +11,14 @@
 
 Примеры промтов и что чем сделано — в `docs/LANDS_OF_THE_WORD.md` (замок, свеча, пергамент, кирпичи стены, остров
 Каменоломни, значки наград, круглый город Бытия).
+
+## Листы спрайтов — `sheet.py`
+
+Несколько предметов за одну генерацию: попросить «лист спрайтов: шесть отдельных предметов сеткой три в ряд, два ряда,
+не касаются друг друга и краёв», `--bg green --size 1536x1024`, затем разрезать по связным областям:
+
+    python3 -I scripts/img-gen/sheet.py sheet.png apps/web/public/img/city-plan 96 donkey,camel,sheep,goat,dog,hen
+
+Имена — по порядку слева направо, сверху вниз; третий аргумент — высота самого высокого спрайта, масштаб общий для
+листа (относительные размеры сохраняются). Если областей не столько, сколько имён, скрипт печатает их рамки и выходит.
+
